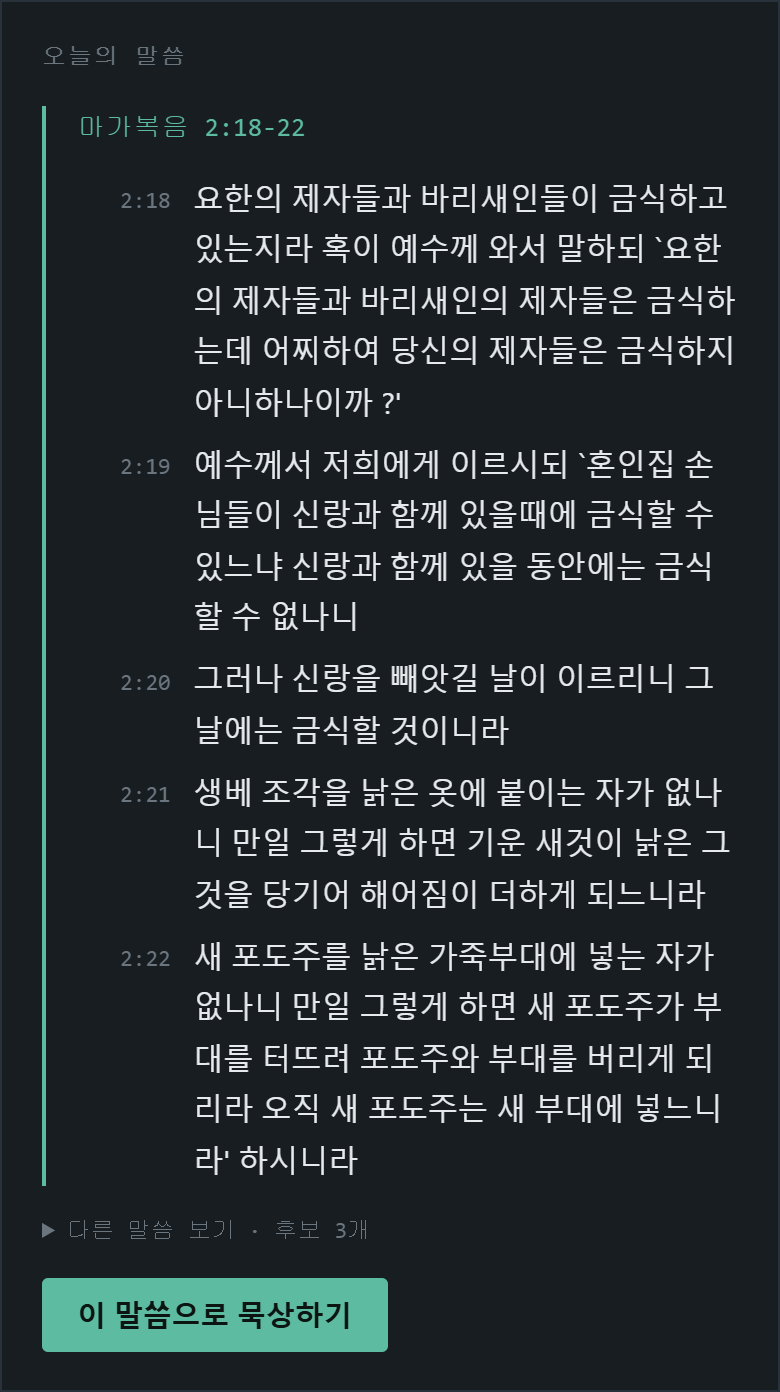
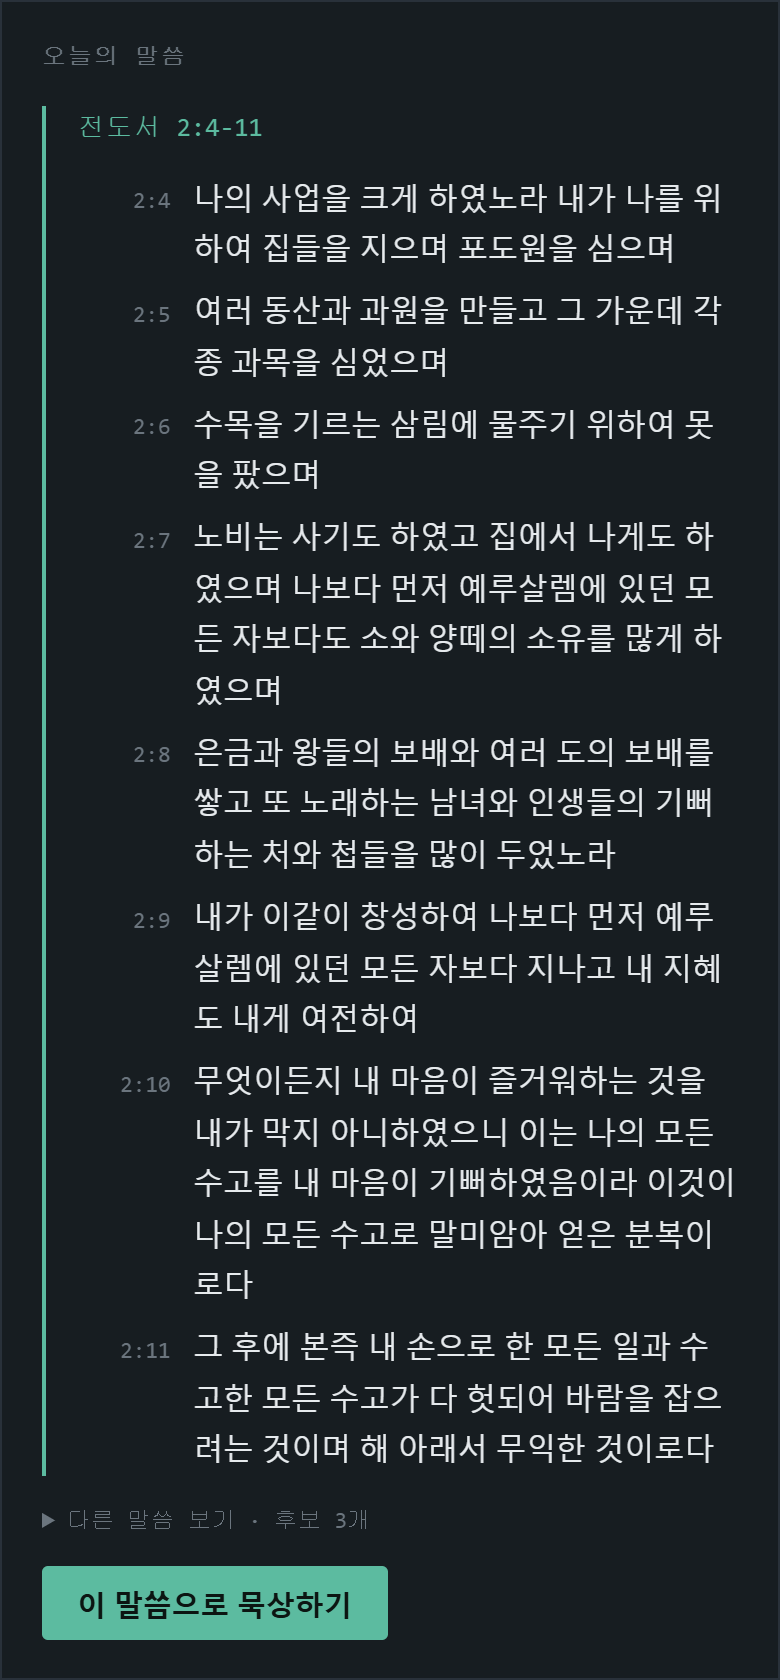
content: re-shoot 이음 with an everyday entry that retrieves well
The old entry ("준비하던 일이 미뤄져 조급하다") produced a question that
asked the user what they thought while watching the disciples fast —
something they never witnessed. A quarrel entry retrieved Judges 12, the
Shibboleth massacre, for a minor argument.

The entry is now "바쁘기만 하고 허전하다", which pulls Ecclesiastes 2 —
"all my labour was vanity and vexation of spirit". No word overlap
between the two, so it also demonstrates the retrieval claim the write-up
makes. The question quotes the user's own sentence back.

diff --git a/src/content/projects.ts b/src/content/projects.ts
@@ -82,13 +82,13 @@ export const projects: Project[] = [
       },
       {
         src: "/figures/ieum-passage.png",
-        alt: "일기를 제출하자 마가복음 2장 18-22절이 절 단위로 줄바꿈되어 표시된 화면. 아래에 다른 후보 3개를 볼 수 있는 링크와 묵상 시작 버튼이 있다.",
+        alt: "일기를 제출하자 전도서 2장 4-11절이 절 단위로 줄바꿈되어 표시된 화면. 아래에 다른 후보 3개를 볼 수 있는 링크와 묵상 시작 버튼이 있다.",
         caption:
           "찾아온 말씀 — 본문은 DB에서 조회해 절 단위로 보여줍니다.",
         note:
-          "일정이 미뤄져 조급하다는 기록에 '새 포도주는 새 부대에' 본문이 왔습니다. 단어가 겹쳐서가 아니라 때가 아직 아니라는 상황이 겹쳐서 걸린 결과입니다. 본문은 예외 없이 DB 조회로만 가져오기 때문에 모델이 구절을 지어낼 수 없고, 아래에 고르지 않은 후보 3개도 함께 열립니다.",
+          "'바쁘기만 하고 허전하다'는 기록에 전도서의 '모든 수고가 바람을 잡으려는 것' 본문이 왔습니다. 두 글에 겹치는 단어는 없습니다. 무엇을 많이 해냈는데도 남는 것이 없다는 상황이 같아서 걸린 것이고, 표면 유사도만으로는 닿지 않는 자리입니다. 본문은 예외 없이 DB 조회로만 가져오므로 모델이 구절을 지어낼 수 없고, 고르지 않은 후보 3개도 아래에서 열립니다.",
         width: 780,
-        height: 1392,
+        height: 1680,
       },
       {
         src: "/figures/ieum-meditation.png",
@@ -96,9 +96,9 @@ export const projects: Project[] = [
         caption:
           "묵상 질문 — 답을 주지 않고, 본문과 그날의 상황을 엮어 되묻습니다.",
         note:
-          "본문 속 장면과 사용자가 쓴 '계속 미뤄져서 조급하다'를 한 문장에 붙여 되묻습니다. 해석을 내려주면 사용자가 생각할 자리가 없어지므로, 생성 모델의 권한을 질문까지로 끊어둔 지점입니다. 세 번에 걸쳐 관찰 · 고백 · 적용 순으로 이어집니다.",
+          "사용자가 쓴 '뭘 위해서 이렇게 바쁜 건지 잘 모르겠다'를 그대로 따와 그 순간으로 되묻습니다. 일반적인 감상을 묻지 않고 사용자가 실제로 쓴 표현에서 출발하게 한 설계입니다. 해석을 내려주면 생각할 자리가 없어지므로 생성 모델의 권한을 질문까지로 끊었고, 세 번에 걸쳐 관찰 · 고백 · 적용 순으로 이어집니다.",
         width: 780,
-        height: 748,
+        height: 782,
       },
     ],
     featured: true,
